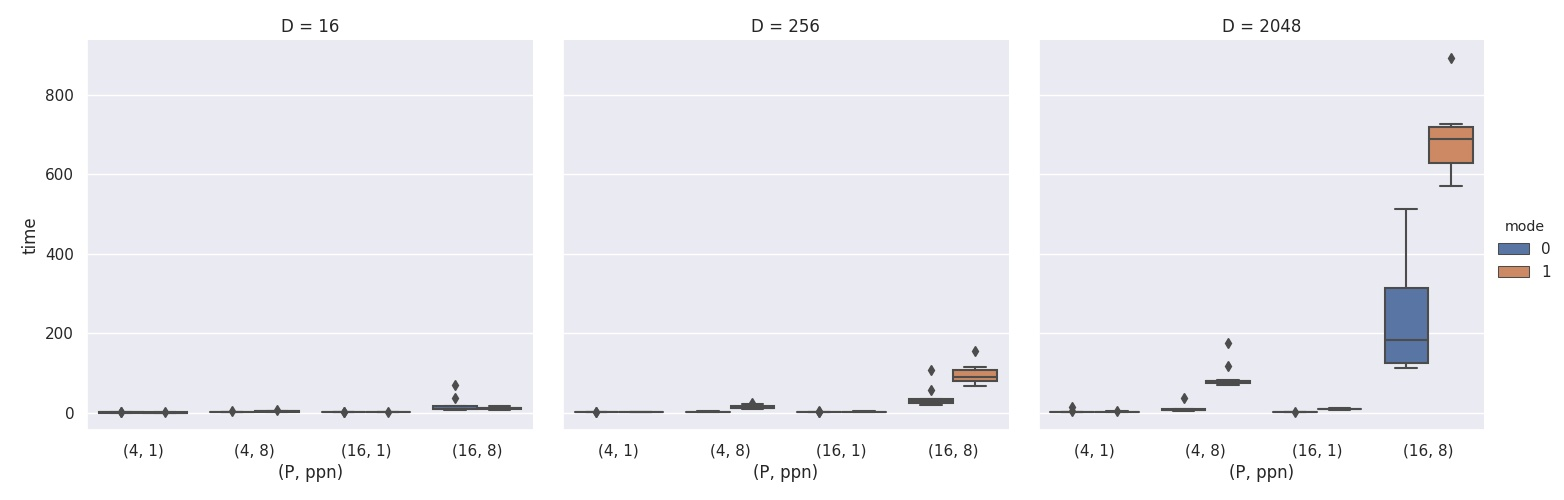
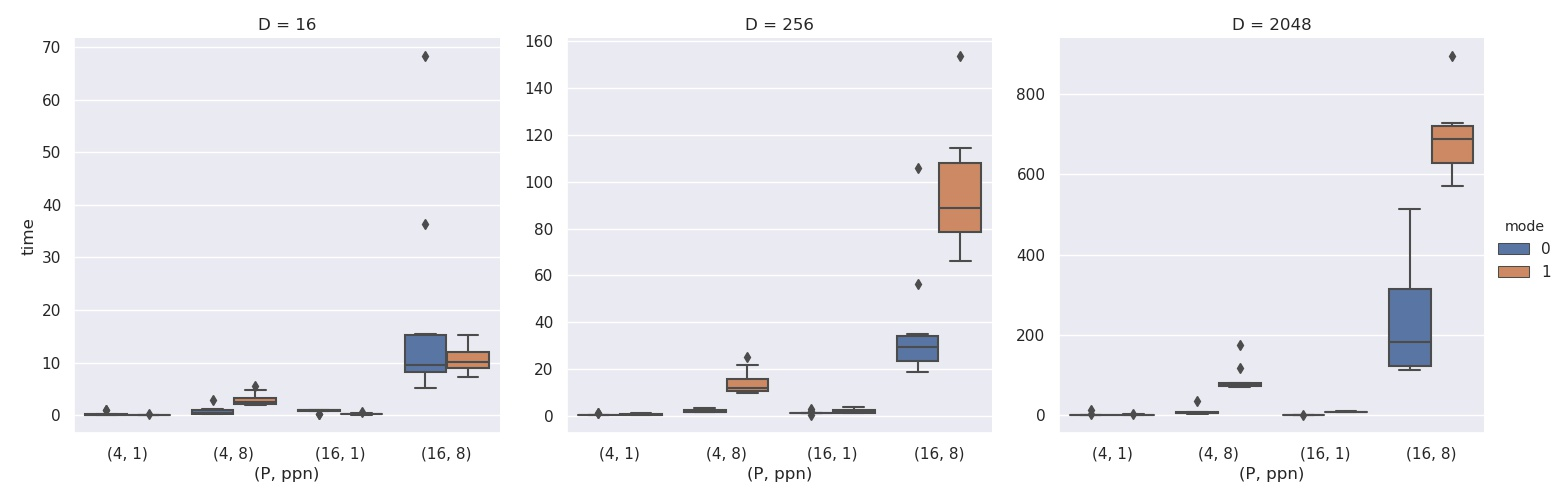
New Plots modified

diff --git a/Assignment2/plot.py b/Assignment2/plot.py
@@ -18,7 +18,7 @@ for option in [1,2,3,4]:
     demo_input_format = pd.read_csv("data_{0}.csv".format(option))
     demo_input_format["(P, ppn)"] = list(map(lambda x, y: ("(" + x + ", " + y + ")"), map(str, demo_input_format["P"]), map(str, demo_input_format["ppn"])))
     print(demo_input_format)
-    sns.catplot(x="(P, ppn)", y="time", data=demo_input_format, kind="box", col="D", hue="mode")
+    sns.catplot(x="(P, ppn)", y="time", data=demo_input_format, kind="box", col="D", hue="mode", sharey=False)
     #plt.show()
     plt.savefig("plot_{0}.jpg".format(option))
 #demo_input_format = pd.DataFrame.from_dict({
